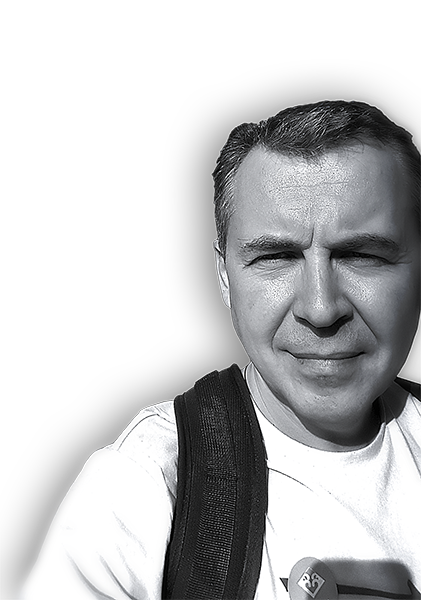
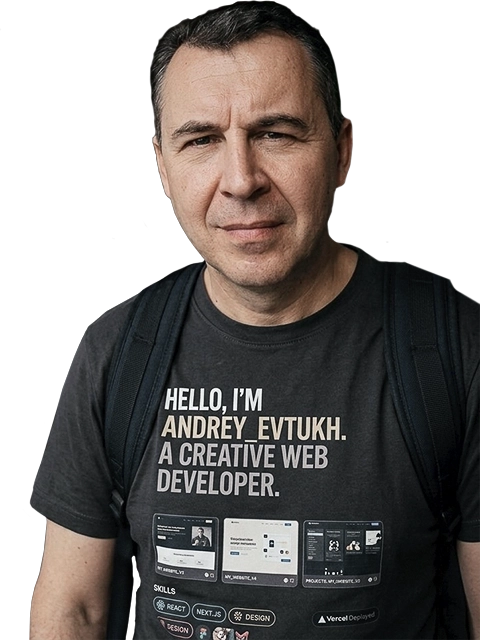
Develop (#26)
* * Mice (#21)

* * og-image (#23)

* * swipe (#25)

diff --git a/src/components/layout/projectsSlider.tsx b/src/components/layout/projectsSlider.tsx
@@ -1,64 +1,70 @@
-'use client';
+"use client";
+import { useEffect, useState } from "react";
+import { AnimatePresence, motion } from "motion/react";
 
-import { useEffect, useState } from 'react';
-import { AnimatePresence, motion } from 'motion/react';
-
+const SWIPE_THRESHOLD = 50;
 const ProjectsSlider = ({ images }: { images: string[] }) => {
     const [activeImage, setActiveImage] = useState<string>(images[0]);
+
     useEffect(() => {
         setActiveImage(images[0]);
     }, [images]);
+    const activeIndex = images.indexOf(activeImage);
 
-    return (
-        <div className={'flex flex-col w-full items-center gap-4 -mb-10'}>
-            <div className={'w-full aspect-[4/3] relative'}>
-                <AnimatePresence>
-                    <motion.div initial={{ opacity: 0 }}
-                                animate={{ opacity: 1}}
-                                exit={{ opacity: 0 }}
-                                transition={{ duration: 0.3, ease: 'easeOut' }}
-                                key={activeImage}
-                                className={[
-                                    'top-0 left-0 absolute w-full h-full rounded-md border border-dark-4 bg-dark-2 bg-center bg-no-repeat bg-contain',
-                                    activeImage
-                                ].join(' ')}
-                    ></motion.div>
-                </AnimatePresence>
-            </div>
-            <div className={'flex flex-row gap-4'}>
-                {images.map(imageClass => {
-                    const isActive = activeImage === imageClass;
+    const showNext = () => {
+        const nextIndex = (activeIndex + 1) % images.length;
+        setActiveImage(images[nextIndex]);
+    };
+    const showPrevious = () => {
+        const previousIndex = (activeIndex - 1 + images.length) % images.length;
+        setActiveImage(images[previousIndex]);
+    };
+    const handleTouchStart = (event: React.TouchEvent<HTMLDivElement>) => {
+        const touch = event.touches[0];
+        event.currentTarget.dataset.startX = String(touch.clientX);
+        event.currentTarget.dataset.startY = String(touch.clientY);
+    };
+    const handleTouchEnd = (event: React.TouchEvent<HTMLDivElement>) => {
+        const startX = Number(event.currentTarget.dataset.startX);
+        const startY = Number(event.currentTarget.dataset.startY);
+        const touch = event.changedTouches[0];
+        const deltaX = touch.clientX - startX;
+        const deltaY = touch.clientY - startY;
 
-                    return (<button key={imageClass}
-                                    aria-label={`Show ${imageClass}`}
-                                    onClick={() => setActiveImage(imageClass)}
-                                    className={['h-6 aspect-square rounded-full relative flex flex-col items-center justify-center',
-                                        isActive
-                                            ? [
-                                                'before:absolute before:block',
-                                                'before:h-1 before:w-1',
-                                                'before:rounded-full',
-                                                'before:outline-2',
-                                                'before:outline-bronze',
-                                                'before:shadow-[0_0_0_6px_#ffc16633]',
-                                                'before:bg-dark-1'
-                                            ].join(' ')
-                                            : [
-                                                'cursor-pointer',
-                                                'before:absolute before:block',
-                                                'before:h-1 before:w-1',
-                                                'before:rounded-full',
-                                                'before:bg-bronze'
-                                            ].join(' ')
-                                    ].join(' ')}
+        if (Math.abs(deltaX) <= Math.abs(deltaY)) {
+            return;
+        }
 
-                    />);
-                })
-                }
-            </div>
+        if (Math.abs(deltaX) < SWIPE_THRESHOLD) {
+            return;
+        }
+        if (deltaX < 0) {
+            showNext();
+        } else {
+            showPrevious();
+        }
+    };
+    return (<div className="flex w-full flex-col items-center gap-4 -mb-10">
+        <div className="relative w-full aspect-[4/3] overflow-hidden touch-pan-y" onTouchStart={handleTouchStart}
+             onTouchEnd={handleTouchEnd}>
+            <AnimatePresence mode="wait">
+                <motion.div key={activeImage} initial={{ opacity: 0 }} animate={{ opacity: 1 }} exit={{ opacity: 0 }}
+                            transition={{ duration: 0.3, ease: "easeOut" }}
+                            className={["absolute top-0 left-0", "h-full w-full", "rounded-md border border-dark-4", "bg-dark-2 bg-center bg-no-repeat bg-contain", activeImage].join(" ")} />
+            </AnimatePresence>
         </div>
-    );
-
+        <div className="flex flex-row gap-4"> {
+            images.map((imageClass) => {
+                const isActive = activeImage === imageClass;
+                return (
+                    <button key={imageClass} type="button" aria-label={`Show ${imageClass}`}
+                            onClick={() => setActiveImage(imageClass)}
+                            className={["relative flex h-6 aspect-square flex-col items-center justify-center",
+                                isActive
+                                    ? ["before:absolute before:block", "before:h-1 before:w-1", "before:rounded-full", "before:outline-2 before:outline-bronze", "before:shadow-[0_0_0_6px_#ffc16633]", "before:bg-dark-1"].join(" ")
+                                    : ["cursor-pointer", "before:absolute before:block", "before:h-1 before:w-1", "before:rounded-full", "before:bg-bronze"].join(" ")].join(" ")} />);
+            })}
+        </div>
+    </div>);
 };
-
 export default ProjectsSlider;

diff --git a/src/components/layout/banner.tsx b/src/components/layout/banner.tsx
@@ -59,12 +59,12 @@ const AppBanner = () => {
     return (<section className="flex flex-col relative font-light">
 
         <div className="relative flex flex-row w-full aspect-video h-1/2 max-h-150 bg-dark-2 shadow-banner bg-dots z-10
-                2xl:rounded-2xl 2xl:mr-12 2xl:-ml-12 2xl:pr-4 2xl:after:right-4 2xl:before:right-22 2xl:before:top-20
+                2xl:rounded-2xl 2xl:mr-12 2xl:-ml-12 2xl:pr-0 2xl:after:right-4 2xl:before:right-22 2xl:before:top-20
                 before:absolute before:h-8/12 before:aspect-square before:right-4 before:top-10 before:rounded-full before:bg-dark-3
                 after:absolute after:h-full after:w-1/2 after:right-0 after:top-0 after:bg-[linear-gradient(to_left,_#00000060_0%,_transparent_100%)]
                 ">
             <div
-                className="relative z-10 flex flex-col gap-4 lg:gap-8 w-1/2 p-4 lg:p-12 lg:justify-between pr-0 justify-around">
+                className="relative z-10 flex flex-col gap-4 lg:gap-8 w-1/2 p-4 lg:p-12 lg:justify-between pr-0 justify-around z-50">
                 <div className="flex flex-col justify-center lg:h-full gap-2 md:gap-4 lg:gap-8">
                     <header className="flex flex-col gap-2 lg:gap-8">
                         <p>
@@ -73,7 +73,7 @@ const AppBanner = () => {
                         </p>
                         <h2 className="text-24 lg:text-36 font-medium whitespace-nowrap text-shadow-[0_0_8px_#000]">Develop
                             — <span
-                                className="block">from idea to production.</span>
+                                className="block text-18 md:text-24 lg:text-36 ">from idea to production.</span>
                         </h2>
                     </header>
                     <p className="2xl:ml-12 font-light text-14 2xl:text-16 hidden md:block ml-12 -mr-24">
@@ -90,7 +90,8 @@ const AppBanner = () => {
                             <span className="font-light">Download CV</span>
                             <AppIcon name={Icon.NAME.DOWNLOAD} className="color-dark-9 w-3! md:w-4! aspect-square " />
                         </AppButton>
-                        <AppButton className={"text-bronze p-0! hover:text-bronze-hover hidden sm:flex"} callBackFunc={goContacts}>
+                        <AppButton className={"text-bronze p-0! hover:text-bronze-hover hidden sm:flex"}
+                                   callBackFunc={goContacts}>
                             <span className="font-light">Let's Chat!</span>
                         </AppButton>
                     </div>
@@ -101,30 +102,39 @@ const AppBanner = () => {
             </div>
 
             <div className="w-1/2 relative z-10">
-                <img alt="Andrey Evtukh" className="absolute right-0 bottom-0 h-full" src="/img/AndreyEvtukh.webp" />
+                <img alt="Andrey Evtukh" className="absolute right-0 bottom-0 2xl:rounded-b-2xl overflow-hidden h-full lg:h-auto"
+                     src="/img/AndreyEvtukh.webp" />
                 <span
-                    className="flex flex-col items-center justify-center w-2/12 aspect-square rounded-full bg-dark-3  right-6/12 top-2/3 absolute shadow-sm p-1
-                    md:p-3
-                    lg:right-72 lg:top-2/3  lg:w-32 lg:h-32 lg:p-6">
-                        <AppIcon name={Icon.NAME.REACT} className="h-full! w-full!" isStatic />
+                    className="flex flex-col items-center justify-center aspect-square top-1/12 rounded-full bg-dark-3 absolute shadow-sm p-0.5
+                    md:p-1
+                    w-1/12 md:w-1/12 lg:w-1/12
+                    right-1/12 md:right-1/25 lg:right-5/7 xl:right-4/7 lg:top-1/12 lg:p-3 ">
+                        <AppIcon name={Icon.NAME.JAVA} className="h-full! w-full!" isStatic />
                     </span>
                 <span
                     className="flex flex-col items-center justify-center  w-1/12 aspect-square right-9/12 top-3/12 rounded-full bg-dark-3  absolute shadow-sm p-0.5
                     md:p-1
-                    lg:w-1/12 lg:right-2/3 lg:top-1/3 lg:p-2">
+                    lg:w-1/12 lg:right-6/7 xl:right-5/7 lg:top-1/3 lg:p-2">
                          <AppIcon name={Icon.NAME.TS} className="h-full! w-full!" isStatic />
                     </span>
                 <span
-                    className="flex flex-col items-center justify-center w-2/12 aspect-square right-1/3 top-1/12 rounded-full bg-dark-3 absolute shadow-sm p-0.5
-                    md:p-1
-                    lg:w-1/12 lg:right-1/3 lg:top-1/12 lg:p-3">
-                        <AppIcon name={Icon.NAME.JAVA} className="h-full! w-full!" isStatic />
-                    </span>
-                <span className="w-3 h-3 right-8/12 top-6/12 rounded-full bg-pink absolute
-                    lg:w-6 lg:h-6 lg:right-6/12 lg:top-44
+                    className="flex flex-col items-center justify-center  aspect-square rounded-full bg-dark-3  absolute shadow-sm p-1
+                    md:p-3
+                    right-7/12 lg:right-5/9
+                    top-5/7 lg:top-2/3
+                    w-3/12 lg:w-32
+                    lg:p-6">
+                        <AppIcon name={Icon.NAME.REACT} className="h-full! w-full!" isStatic />
+                </span>
+
+                <span className="w-3 h-3 right-2/3 lg:right-3/5 xl:right-4/8 rounded-full bg-pink absolute
+                    top-7/12 sm:top-1/2
+                    lg:w-6 lg:h-6  lg:top-44
                 "></span>
-                <span className="w-1 h-1 right-1/12 top-1/12 rounded-full bg-gold absolute
-                    lg:w-2 lg:h-2 lg:right-1/12 lg:top-10"></span>
+                <span className="w-1 h-1 right-1/12  rounded-full bg-gold absolute
+                    top-3/12 lg:top-1/12
+                    lg:w-2 lg:h-2
+                    lg:right-1/12 lg:top-10"></span>
             </div>
         </div>
         {footer("flex lg:hidden w-full bg-dark-3! z-50 border-0 rounded-0 p-0 sm:p-2")}
